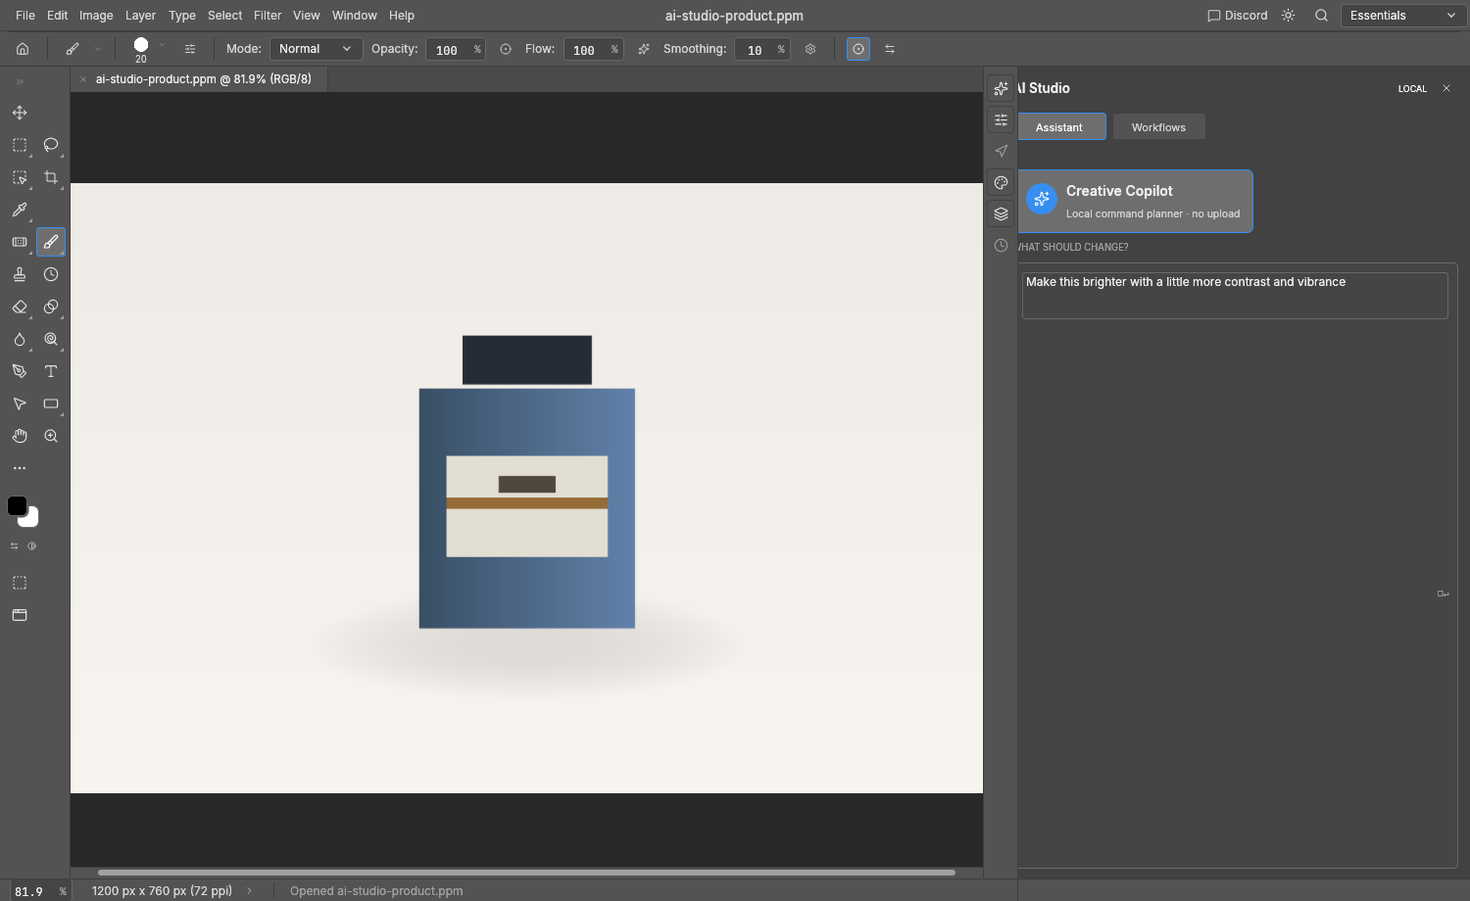
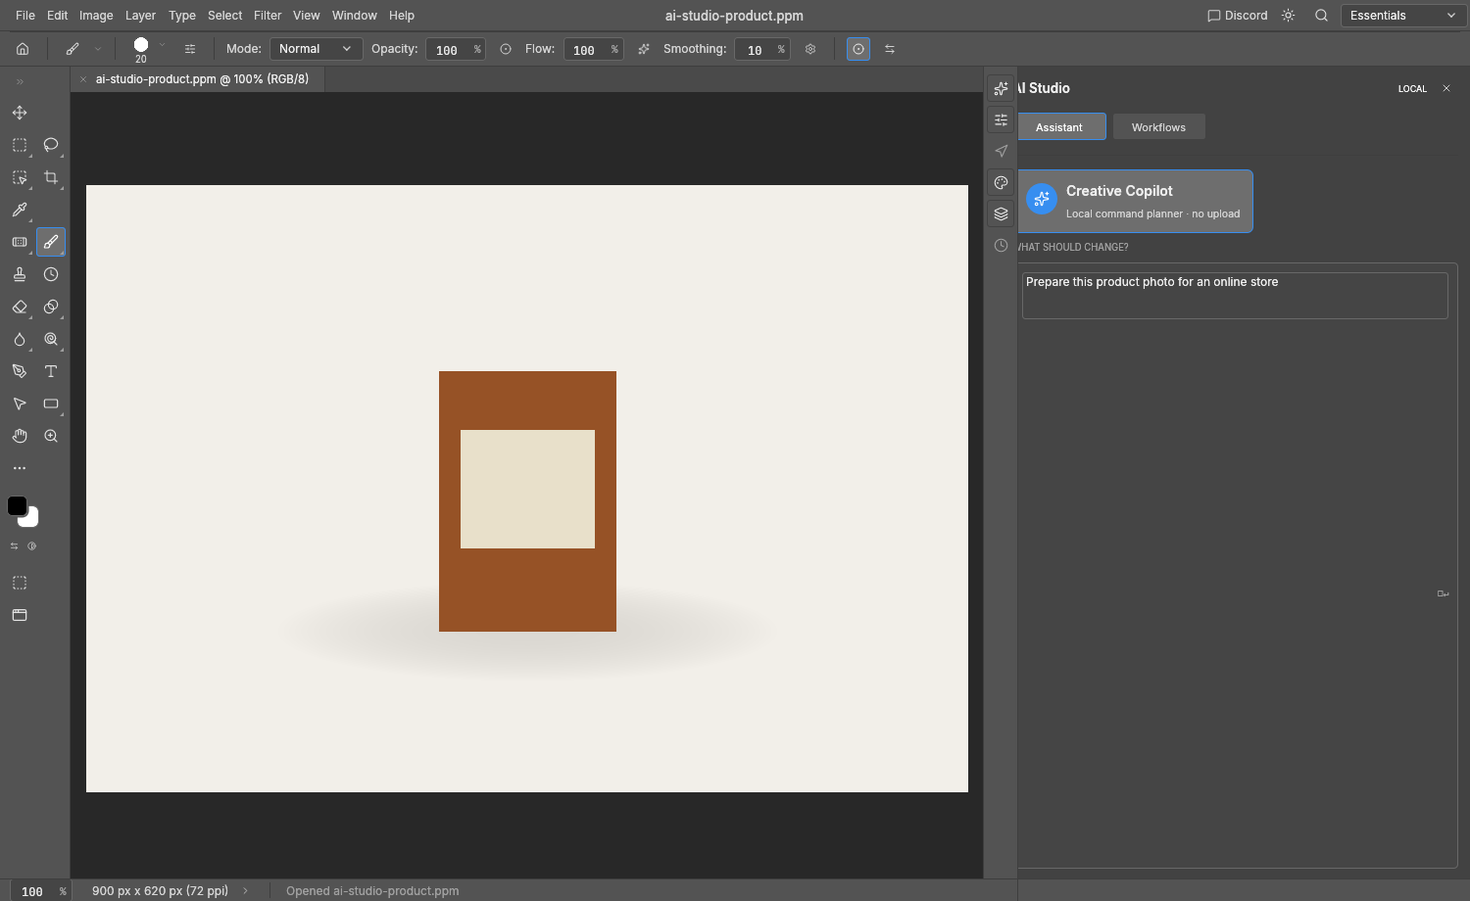
feat: add image-aware product isolation

diff --git a/crates/ui-egui/src/ai_panel.rs b/crates/ui-egui/src/ai_panel.rs
@@ -88,11 +88,21 @@ struct ProductPhotoPreset {
     steps: Vec<AiStep>,
 }
 
-/// Built-in product-photo recipes intentionally use only reviewed, non-destructive adjustment
-/// commands. They do not pretend to remove backgrounds or isolate subjects: those operations need
-/// image-aware capabilities that are outside the current safe command surface.
+/// Built-in product-photo recipes use only reviewed, non-destructive editor commands. Image-aware
+/// isolation is implemented as an editable layer mask: source pixels are never deleted.
 fn product_photo_presets() -> Vec<ProductPhotoPreset> {
     vec![
+        ProductPhotoPreset {
+            id: "studio-cutout",
+            icon: "layers",
+            title: "Studio cutout",
+            subtitle: "Detect subject + editable background mask",
+            steps: vec![
+                AiStep::command("Detect the product and mask its background", "layer.removeBackground", json!({})),
+                AiStep::command("Open up the product tones", "layer.newAdjustmentLayer.brightnessContrast", json!({"brightness": 8, "contrast": 4})),
+                AiStep::command("Keep color natural", "layer.newAdjustmentLayer.vibrance", json!({"vibrance": 8, "saturation": 0})),
+            ],
+        },
         ProductPhotoPreset {
             id: "clean-catalog",
             icon: "sparkles",
@@ -209,6 +219,7 @@ const SAFE_COMMANDS: &[&str] = &[
     "layer.arrange.sendToBack",
     "layer.createClippingMask",
     "layer.releaseClippingMask",
+    "layer.removeBackground",
     "layer.newAdjustmentLayer.brightnessContrast",
     "layer.newAdjustmentLayer.curves",
     "layer.newAdjustmentLayer.vibrance",
@@ -321,6 +332,7 @@ fn validate_safe_params(command: &str, params: &Value) -> Result<(), String> {
         | "layer.arrange.sendToBack"
         | "layer.createClippingMask"
         | "layer.releaseClippingMask"
+        | "layer.removeBackground"
         | "layer.newAdjustmentLayer.blackWhite"
         | "layer.newAdjustmentLayer.invert" => no_params(command, map),
         "layer.setProps" => {
@@ -449,6 +461,7 @@ pub fn planner_contract() -> Value {
             {"id": "layer.arrange.sendToBack", "params": {}},
             {"id": "layer.createClippingMask", "params": {}},
             {"id": "layer.releaseClippingMask", "params": {}},
+            {"id": "layer.removeBackground", "params": {}, "effect": "detect the dominant subject locally and hide the background with an editable layer mask"},
             {"id": "layer.newAdjustmentLayer.brightnessContrast", "params": {"brightness": "optional number -150..150", "contrast": "optional number -50..100"}},
             {"id": "layer.newAdjustmentLayer.curves", "params": {"points": "optional 2..32 [input, output] pairs; each value 0..255; inputs strictly increasing"}},
             {"id": "layer.newAdjustmentLayer.vibrance", "params": {"vibrance": "optional number -100..100", "saturation": "optional number -100..100"}},
@@ -460,7 +473,8 @@ pub fn planner_contract() -> Value {
             "Never invent a command id or parameter. Use null when the request needs a capability outside the allowed commands.",
             "Never send a layer id. All allowed layer commands intentionally operate on the active layer or current selection.",
             "Prefer non-destructive adjustment layers and keep the document editable.",
-            "Do not claim a vision, selection, delete, export, filesystem, or network action happened when no allowed command can perform it.",
+            "Image-aware background isolation is allowed only through layer.removeBackground, which creates an editable mask and does not delete source pixels.",
+            "Do not claim generative fill, object synthesis, export, filesystem, or network actions happened when no allowed command can perform them.",
             "Keep plans short and directly related to the user's request."
         ]
     })
@@ -476,11 +490,30 @@ pub fn plan(prompt: &str) -> PlannedRequest {
     let q = p.to_lowercase();
     let has = |needles: &[&str]| needles.iter().any(|needle| q.contains(needle));
 
+    if has(&[
+        "remove background",
+        "remove the background",
+        "background removal",
+        "isolate subject",
+        "isolate the subject",
+        "arka planı kaldır",
+        "arka plani kaldir",
+        "arka planı sil",
+        "arka plani sil",
+        "fonu kaldır",
+        "fonu kaldir",
+    ]) {
+        return PlannedRequest {
+            title: "Background isolation".into(),
+            steps: vec![AiStep::command("Detect the subject and hide its background", "layer.removeBackground", json!({}))],
+        };
+    }
+
     if has(&["product photo", "product shot", "e-commerce", "ecommerce", "online store", "ürün foto", "urun foto", "mağaza", "magaza"]) {
         return PlannedRequest {
             title: "Product photo preparation".into(),
             steps: vec![
-                AiStep::pending("Isolate the product", "Subject isolation will be enabled when the vision backend is connected."),
+                AiStep::command("Detect the product and hide its background", "layer.removeBackground", json!({})),
                 AiStep::command("Lift tone and contrast", "layer.newAdjustmentLayer.brightnessContrast", json!({"brightness": 12, "contrast": 6})),
                 AiStep::command("Add restrained vibrance", "layer.newAdjustmentLayer.vibrance", json!({"vibrance": 16, "saturation": 2})),
             ],
@@ -1020,6 +1053,7 @@ fn step_summary(step: &AiStep) -> String {
         "layer.arrange.sendToBack" => "Active layer ? bottom of its stack".into(),
         "layer.createClippingMask" => "Clip active layer to the layer below".into(),
         "layer.releaseClippingMask" => "Release active layer from its clipping mask".into(),
+        "layer.removeBackground" => "Detect subject locally → hide background with an editable mask".into(),
         "layer.newAdjustmentLayer.brightnessContrast" => {
             let b = p.get("brightness").and_then(Value::as_f64).unwrap_or(0.0);
             let c = p.get("contrast").and_then(Value::as_f64).unwrap_or(0.0);
@@ -1172,8 +1206,8 @@ fn workflows_panel(app: &mut PhotocraftApp, ui: &mut egui::Ui) {
     ui.spacing_mut().item_spacing.y = 8.0;
     ui.add_space(2.0);
     ui.label(RichText::new("PRODUCT PHOTO PRESETS").size(9.5).color(t.text_faint).strong());
-    ui.label(RichText::new("Built-in, non-destructive looks made only from reviewed adjustment commands.").size(10.5).color(t.text_dim));
-    ui.label(RichText::new("Background removal and subject isolation stay explicit until image-aware tools are connected.").size(9.5).color(t.text_faint));
+    ui.label(RichText::new("Built-in, non-destructive looks made only from reviewed editor commands.").size(10.5).color(t.text_dim));
+    ui.label(RichText::new("Studio cutout detects the subject locally and keeps the result editable as a layer mask.").size(9.5).color(t.text_faint));
 
     for preset in product_photo_presets() {
         if workflow_card(ui, &t, preset.icon, preset.title, preset.subtitle) {
@@ -1292,13 +1326,15 @@ mod tests {
     #[test]
     fn product_photo_presets_are_safe_non_destructive_plans() {
         let presets = product_photo_presets();
-        assert_eq!(presets.len(), 4);
+        assert_eq!(presets.len(), 5);
         let mut ids = std::collections::BTreeSet::new();
         for preset in presets {
             assert!(ids.insert(preset.id), "duplicate preset id: {}", preset.id);
             assert!(validate(&preset.steps).is_ok(), "{} must stay inside the reviewed AI boundary", preset.title);
             assert!(
-                preset.steps.iter().all(|step| step.command.as_deref().is_some_and(|command| command.starts_with("layer.newAdjustmentLayer."))),
+                preset.steps.iter().all(|step| {
+                    step.command.as_deref().is_some_and(|command| command == "layer.removeBackground" || command.starts_with("layer.newAdjustmentLayer."))
+                }),
                 "{} should remain non-destructive and batch-safe",
                 preset.title
             );
@@ -1307,7 +1343,7 @@ mod tests {
 
     #[test]
     fn product_photo_presets_execute_against_the_editor_engine() {
-        for preset in product_photo_presets() {
+        for preset in product_photo_presets().into_iter().filter(|preset| preset.id != "studio-cutout") {
             let mut app = PhotocraftApp::new(photocraft_engine::Session::new(), crate::Services::default());
             app.run("file.new", json!({"width": 32, "height": 32})).unwrap();
             app.ui.ai.plan_title = preset.title.into();
@@ -1319,19 +1355,44 @@ mod tests {
     }
 
     #[test]
-    fn product_photo_presets_do_not_claim_unavailable_background_work() {
-        for preset in product_photo_presets() {
-            let text = format!("{} {}", preset.title, preset.subtitle).to_ascii_lowercase();
-            assert!(!text.contains("remove background"));
-            assert!(!text.contains("isolate"));
-        }
+    fn studio_cutout_executes_image_aware_masking_as_one_undo() {
+        let preset = product_photo_presets().into_iter().find(|preset| preset.id == "studio-cutout").unwrap();
+        let mut app = PhotocraftApp::new(photocraft_engine::Session::new(), crate::Services::default());
+        app.run("file.new", json!({"width": 200, "height": 160})).unwrap();
+        app.run("edit.fill", json!({"color": "#f5f5f5"})).unwrap();
+        app.run("select.rect", json!({"x": 60, "y": 40, "width": 80, "height": 80})).unwrap();
+        app.run("edit.fill", json!({"color": "#d83a20"})).unwrap();
+        app.run("select.deselect", json!({})).unwrap();
+        let state = app.session.active().unwrap();
+        let product_layer = state.active_layer.expect("active product layer");
+        let history_before = state.history.past_len();
+        app.ui.ai.plan_title = preset.title.into();
+        app.ui.ai.plan = preset.steps;
+        run_plan(&mut app);
+        assert!(!app.ui.ai.status_error, "{}", app.ui.ai.status);
+        assert!(app.session.active().unwrap().doc.layer(product_layer).and_then(|layer| layer.mask.as_ref()).is_some());
+        assert_eq!(app.session.active().unwrap().history.past_len(), history_before + 1, "the whole image-aware preset stays one undo transaction");
+        assert!(app.session.undo());
+        assert!(app.session.active().unwrap().doc.layer(product_layer).and_then(|layer| layer.mask.as_ref()).is_none());
     }
 
     #[test]
-    fn product_workflow_waits_for_vision_instead_of_faking_it() {
+    fn product_workflow_uses_real_image_aware_isolation() {
         let p = plan("Prepare this product photo for an online store");
-        assert!(p.steps.iter().any(|s| s.command.is_none()));
-        assert!(validate(&p.steps).is_err());
+        assert!(validate(&p.steps).is_ok());
+        assert_eq!(p.steps.first().and_then(|s| s.command.as_deref()), Some("layer.removeBackground"));
+        assert!(p.steps.iter().all(|s| s.command.is_some()));
+    }
+
+    #[test]
+    fn background_removal_intent_is_a_single_editable_mask_step() {
+        for prompt in ["Remove the background", "Arka planı kaldır"] {
+            let p = plan(prompt);
+            assert_eq!(p.steps.len(), 1, "{prompt}");
+            assert_eq!(p.steps[0].command.as_deref(), Some("layer.removeBackground"), "{prompt}");
+            assert!(validate(&p.steps).is_ok(), "{prompt}");
+        }
+        assert!(validate(&[AiStep::command("Unsafe targeted cutout", "layer.removeBackground", json!({"layer": 42}))]).is_err());
     }
 
     #[test]

diff --git a/crates/engine/src/layer_menu_cmds.rs b/crates/engine/src/layer_menu_cmds.rs
@@ -186,10 +186,9 @@ fn hide_selection(s: &mut Session, p: &Value) -> Result<Value> {
     })
 }
 
-/// Layer › Mask All Objects: detects the main objects (the Select › Subject segmentation over the
-/// layer, or the composite for non-pixel layers) and masks the layer to them. Photoshop makes one
-/// group per object; here the objects share one mask.
-fn mask_all_objects(s: &mut Session, p: &Value) -> Result<Value> {
+/// Detect the dominant subject over the layer (or composite for non-pixel content) and attach the
+/// segmentation result as an editable mask. Background layers are promoted before receiving a mask.
+fn mask_detected_subject(s: &mut Session, p: &Value, history_label: &str) -> Result<Value> {
     let id = layer_param(s, p)?;
     let d = s.active().ok_or(EngineError::NoDocument)?;
     let doc = d.doc.clone();
@@ -208,17 +207,29 @@ fn mask_all_objects(s: &mut Session, p: &Value) -> Result<Value> {
             photocraft_algo::segment::subject::select_subject(&Composite(&doc), doc.bounds())
         }
     };
-    let region = region.ok_or_else(|| other("no objects were found"))?;
+    let region = region.ok_or_else(|| other("no subject was found"))?;
     let bbox = region.bbox;
-    s.edit("Mask All Objects", |doc, _| {
+    s.edit(history_label, |doc, _| {
         let mut mask = LayerMask::hide_all();
         let v: Vec<f32> = region.mask.iter().map(|m| f32::from(*m) / 255.0).collect();
         mask.surface.write_region(bbox, &v);
         mask.surface.prune();
+        crate::extra_cmds::background_to_layer_for_mask(doc, id);
         doc.layer_mut(id).ok_or(EngineError::NoLayer(id))?.mask = Some(mask);
         Ok(())
     })?;
-    Ok(json!({"bounds": [bbox.x0, bbox.y0, bbox.width(), bbox.height()]}))
+    Ok(json!({"bounds": [bbox.x0, bbox.y0, bbox.width(), bbox.height()], "layer": id.0, "editableMask": true}))
+}
+
+/// Layer › Mask All Objects: detect the main visible subject(s) and mask the layer to them.
+fn mask_all_objects(s: &mut Session, p: &Value) -> Result<Value> {
+    mask_detected_subject(s, p, "Mask All Objects")
+}
+
+/// Detect the dominant subject and hide its background with an editable layer mask. No source
+/// pixels are deleted, so the result can be refined manually and undone like any normal edit.
+fn remove_background(s: &mut Session, p: &Value) -> Result<Value> {
+    mask_detected_subject(s, p, "Remove Background")
 }
 
 // ---------- matting ----------
@@ -730,6 +741,7 @@ pub fn specs() -> Vec<CommandSpec> {
         spec!("layer.layerMask.fromTransparency", "From Transparency", ["Layer", "Layer Mask"], r##"{"layer":id?}"##, has_raster, mask_from_transparency),
         spec!("layer.layerMask.hideSelection", "Hide Selection", ["Layer", "Layer Mask"], r##"{"layer":id?}"##, has_selection_layer, hide_selection),
         spec!("layer.maskAllObjects", "Mask All Objects", ["Layer"], r##"{"layer":id?}"##, has_layer, mask_all_objects),
+        spec!("layer.removeBackground", "Remove Background", [], "{}", has_raster, remove_background),
         spec!("layer.matting.defringe", "Defringe…", ["Layer", "Matting"], r##"{"width":1..200=1}"##, has_raster, matting_defringe),
         spec!("layer.matting.removeBlackMatte", "Remove Black Matte", ["Layer", "Matting"], "{}", has_raster, |s, _| remove_matte(s, false)),
         spec!("layer.matting.removeWhiteMatte", "Remove White Matte", ["Layer", "Matting"], "{}", has_raster, |s, _| remove_matte(s, true)),

diff --git a/apps/photocraft/src/services.rs b/apps/photocraft/src/services.rs
@@ -534,6 +534,55 @@ mod ai_tests {
         assert!(output.join("source-ai.png").is_file());
         std::fs::remove_dir_all(root).unwrap();
     }
+
+    #[test]
+    fn image_aware_batch_cutout_writes_transparent_background_copy() {
+        use photocraft_engine::Session;
+        use photocraft_ui_egui::ai_panel::{AiBatchRequest, AiStep, AiWorkflow};
+        use std::time::{SystemTime, UNIX_EPOCH};
+
+        let unique = SystemTime::now().duration_since(UNIX_EPOCH).unwrap().as_nanos();
+        let root = std::env::temp_dir().join(format!("photocraft-ai-cutout-{}-{unique}", std::process::id()));
+        let input = root.join("input");
+        let output = root.join("output");
+        std::fs::create_dir_all(&input).unwrap();
+        std::fs::create_dir_all(&output).unwrap();
+
+        let mut source_session = Session::new();
+        source_session.execute("file.new", serde_json::json!({"width": 200, "height": 160})).unwrap();
+        source_session.execute("edit.fill", serde_json::json!({"color": "#f5f5f5"})).unwrap();
+        source_session.execute("select.rect", serde_json::json!({"x": 60, "y": 40, "width": 80, "height": 80})).unwrap();
+        source_session.execute("edit.fill", serde_json::json!({"color": "#d83a20"})).unwrap();
+        source_session.execute("select.deselect", serde_json::json!({})).unwrap();
+        let source_doc = source_session.active().unwrap().doc.clone();
+        let source_bytes = photocraft_io::export(source_doc.as_ref(), "source.png", &photocraft_io::ExportOptions::default()).unwrap().bytes;
+        let source = input.join("source.png");
+        std::fs::write(&source, &source_bytes).unwrap();
+
+        let workflow = AiWorkflow {
+            name: "Studio cutout".into(),
+            steps: vec![AiStep {
+                label: "Detect the product and hide its background".into(),
+                command: Some("layer.removeBackground".into()),
+                params: serde_json::json!({}),
+                note: String::new(),
+            }],
+        };
+        let result =
+            run_ai_batch(AiBatchRequest { workflow, input_dir: input.to_string_lossy().to_string(), output_dir: output.to_string_lossy().to_string() })
+                .unwrap();
+        assert_eq!((result.succeeded, result.failed), (1, 0));
+        assert_eq!(std::fs::read(&source).unwrap(), source_bytes, "batch never mutates the source");
+
+        let out = std::fs::read(output.join("source-ai.png")).unwrap();
+        let cutout = photocraft_io::import("source-ai.png", &out).unwrap().document;
+        let flat = photocraft_compose::flatten(&cutout);
+        let width = cutout.size.width as usize;
+        let corner_alpha = flat.px[0][3];
+        let center_alpha = flat.px[80 * width + 100][3];
+        assert!(center_alpha > corner_alpha + 0.5, "detected product should stay visible while the background becomes transparent");
+        std::fs::remove_dir_all(root).unwrap();
+    }
 }
 
 #[cfg(test)]

diff --git a/crates/engine/src/layer_menu_cmds/tests.rs b/crates/engine/src/layer_menu_cmds/tests.rs
@@ -370,6 +370,24 @@ fn mask_all_objects_masks_the_subject() {
 }
 
 #[test]
+fn remove_background_creates_an_editable_non_destructive_mask() {
+    let mut s = session(8, "rgb");
+    paint(&mut s, |x, y| {
+        let inside = (((x - 20) * (x - 20) + (y - 15) * (y - 15)) as f32).sqrt() < 8.0;
+        if inside { [0.85, 0.18, 0.08, 1.0] } else { [0.96, 0.96, 0.96, 1.0] }
+    });
+    let before = active(&s).surface().unwrap().read_region(s.active().unwrap().doc.bounds());
+    let r = s.execute("layer.removeBackground", json!({})).unwrap();
+    assert_eq!(r["editableMask"], true);
+    let layer = active(&s);
+    let mask = layer.mask.as_ref().expect("editable subject mask");
+    assert!(mask.value(20, 15) > mask.value(1, 1), "subject revealed, background hidden");
+    assert_eq!(layer.surface().unwrap().read_region(s.active().unwrap().doc.bounds()), before, "source pixels stay untouched");
+    assert!(s.undo());
+    assert!(active(&s).mask.is_none(), "one undo restores the unmasked source layer");
+}
+
+#[test]
 fn layer_masks_in_gray_cmyk_lab() {
     for mode in ["gray", "cmyk", "lab"] {
         let mut s = session(16, mode);

diff --git a/crates/ui-egui/src/props_layout_tests.rs b/crates/ui-egui/src/props_layout_tests.rs
@@ -67,9 +67,9 @@ fn quick_actions_fit_the_layer_kind() {
             "pixel" => assert!(all.contains(&"select.subject")),
             _ => assert!(!all.contains(&"select.subject"), "{kind}: Select Subject is for pixel layers"),
         }
-        // Every listed command exists, except ones not implemented yet (filtered when shown).
+        // Every listed Quick Action must be backed by a real command.
         for id in &all {
-            assert!(crate::menus::is_live(id) || *id == "layer.removeBackground", "{kind}: {id} is not a command");
+            assert!(crate::menus::is_live(id), "{kind}: {id} is not a command");
         }
     }
     let ty = app.session.active().unwrap().doc.layers.iter().find(|l| matches!(l.content, LayerContent::Text(_))).unwrap().content.clone();

diff --git a/crates/ui-egui/examples/snapshot.rs b/crates/ui-egui/examples/snapshot.rs
@@ -88,7 +88,7 @@ fn main() {
             }
             match ai_demo_for_app.as_deref() {
                 Some("assistant") => {
-                    let prompt = "Make this brighter with a little more contrast and vibrance";
+                    let prompt = "Prepare this product photo for an online store";
                     let planned = photocraft_ui_egui::ai_panel::plan(prompt);
                     app.ui.panels.ai = true;
                     app.ui.ai.tab = 0;

diff --git a/docs/ai-studio.md b/docs/ai-studio.md
@@ -59,10 +59,12 @@ Before execution, AI Studio presents each step in editor language rather than ex
 
 Executable AI plans run as one history transaction. The shell injects an internal coalescing key only after the plan has passed validation, so model output and saved workflows cannot control history grouping. A successful multi-step plan appears as one `AI Plan: ?` undo state. If any later step fails, AI Studio automatically undoes the already-applied steps, removes the failed plan from redo history, and restores the command journal to its pre-plan state.
 
-## Product Photo Presets V1
+## Product Photo Presets V2
 
-The Workflows tab includes four deterministic product-photo presets: **Clean catalog**, **Marketplace crisp**, **Soft luxury**, and **Monochrome detail**. These presets are not prompt templates; each expands directly into a reviewed editor plan so the user can inspect the exact adjustment layers before applying it.
+The Workflows tab includes five deterministic product-photo presets: **Studio cutout**, **Clean catalog**, **Marketplace crisp**, **Soft luxury**, and **Monochrome detail**. These are not prompt templates; each expands directly into a reviewed editor plan so the user can inspect the exact mask and adjustment steps before applying it.
 
-All V1 product presets are intentionally non-destructive and batch-safe. They use only brightness/contrast, curves, vibrance, and black-and-white adjustment layers already covered by the AI safety boundary. A preset therefore gets the same validation, plan review, atomic one-Undo execution, saved-workflow support, and folder-batch compatibility as any other executable AI plan.
+**Studio cutout** is the first image-aware preset. `layer.removeBackground` runs the engine's local subject segmentation against the active raster layer and writes the result as an editable grayscale layer mask. It does not erase source pixels, upload document pixels, or call a remote vision service. The same command is available from the raster layer's Properties > Quick Actions surface.
 
-V1 does **not** claim to remove a background, isolate a product, synthesize shadows, or reposition a subject. Those operations require image-aware selection or generation capabilities that are not yet part of the reviewed command surface. The general product-photo natural-language request continues to show subject isolation as pending rather than pretending it happened.
+The general product-photo request now uses that real isolation command followed by restrained tonal adjustments. Direct requests such as “Remove the background” or “Arka planı kaldır” create a single reviewed background-isolation step rather than adding unrelated styling. Because the command is inside the same validator boundary, the result keeps plan review, atomic one-Undo execution, saved-workflow support and folder-batch compatibility. If segmentation cannot find a subject, the command fails without writing an output; an AI multi-step plan rolls back atomically.
+
+Image-aware V2 still does **not** claim generative fill, synthesized shadows, automatic subject repositioning, or semantic object replacement. Those remain separate future capabilities.

diff --git a/README.md b/README.md
@@ -17,7 +17,7 @@ The AI Studio turns natural-language intent into reviewed, deterministic editor 
   <img src="docs/images/ai-studio-workflows.png" alt="AI Studio saved workflows and batch controls" width="49%">
 </p>
 
-<sub>Left: human-readable plan review with editable adjustment steps and one-Undo semantics. Right: reusable saved workflows with non-destructive Batch Workflows V1.</sub>
+<sub>Left: image-aware product preparation with local subject masking and one-Undo semantics. Right: built-in product presets plus reusable workflows and safe folder batches.</sub>
 
 ## Product direction
 
@@ -71,11 +71,18 @@ Model planner setup: [`docs/ai-studio.md`](docs/ai-studio.md)
 - [x] Atomic multi-step AI actions: one Undo, automatic rollback on failure.
 - [x] Save a validated command sequence as a reusable workflow.
 
+### AI Studio V2
+
+- [x] Image-aware subject detection through the local editor engine; document pixels stay on-device.
+- [x] Non-destructive background removal as an editable layer mask, available to plans, presets and saved/batch workflows.
+- [ ] AI-assisted mask refinement / edge cleanup controls.
+- [ ] Product layout helpers: clean background, centering/scaling and editable soft shadow.
+
 ### Creative Studio MVP
 
 - [x] Open PNG, JPEG, WebP and PSD documents.
 - [x] Core layer / mask / text operations.
-- [x] Product-photo workflow presets (safe built-in adjustment recipes).
+- [x] Product-photo workflow presets (including local subject detection + editable background masking).
 - [x] Batch workflow execution from saved workflows (desktop V1: source folder → safe PNG copies).
 - [x] Export PNG, JPEG, WebP and PSD (WebP is lossless; PSD keeps layers).
 
